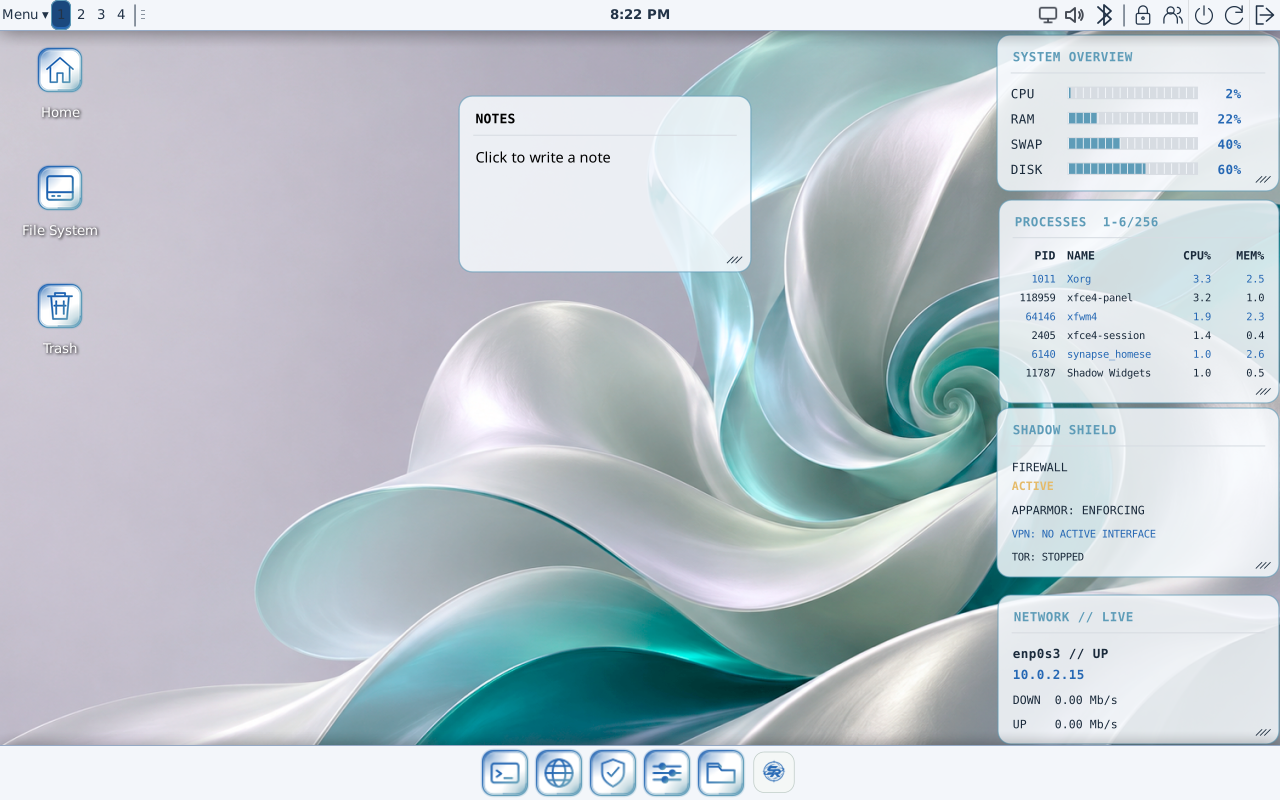
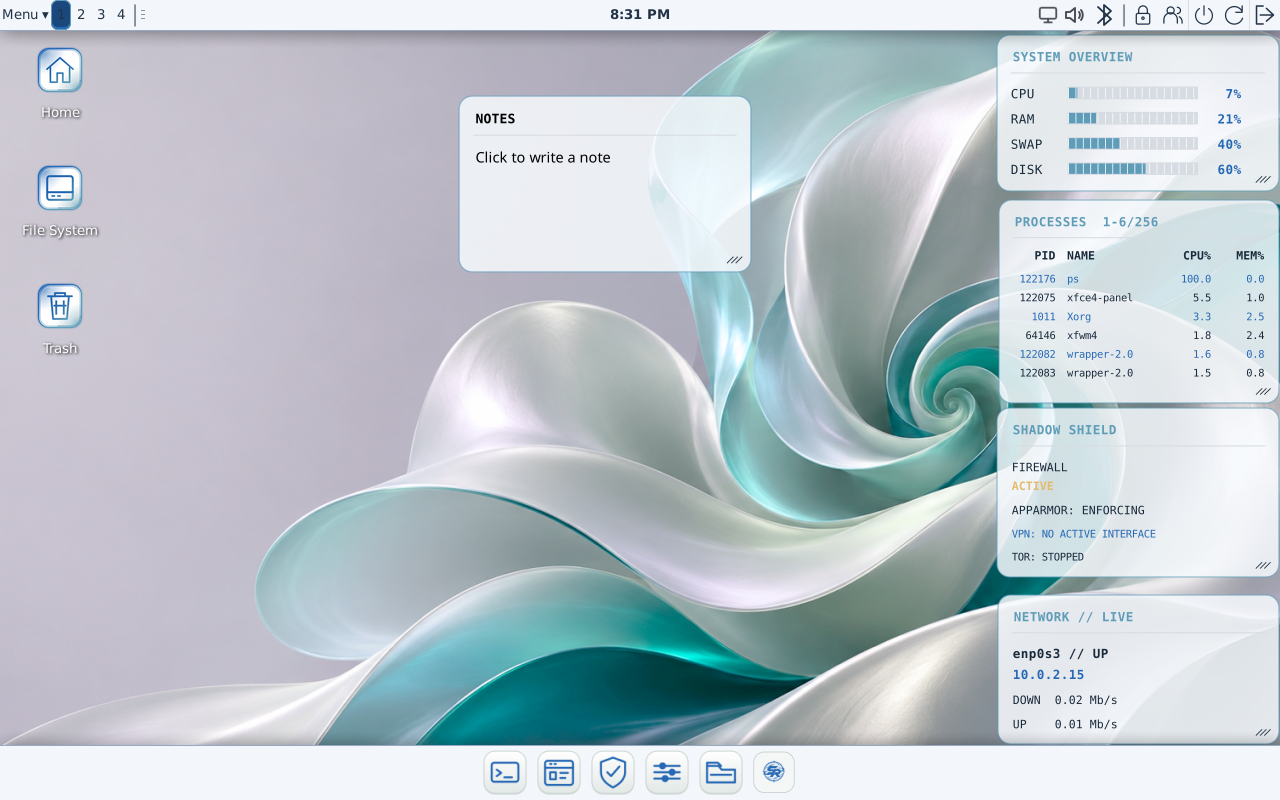
Use the neutral Professional dock art in the Professional screenshots.
The dock now shows the generated light Professional tiles instead of the
recoloured Neon signature frames, and they stay put across theme switches.

Changed region(s): [[0.375, 0.9375, 0.5938, 1.0], [0.7812, 0.4062, 0.9062, 0.4688], [0.7812, 0.3438, 0.8438, 0.4062]]

diff --git a/website/index.html b/website/index.html
@@ -249,7 +249,7 @@
 <figcaption><strong>Sculpted Silk</strong><span>Professional — Plum</span></figcaption></figure>
 </div>
 <p class="gallery-position" aria-live="polite" aria-atomic="true"></p>
-<div class="professional-showcase" hidden><h3>A quieter workspace</h3><p>Emerald, Ocean, Graphite and Plum accents pair with three sculpted abstract wallpapers. The same desktop controls and widgets use a restrained, unbranded appearance.</p><img class="screen" src="https://raw.githubusercontent.com/AstraShadowsss/ShadowRealm-OS/main/screenshots/professional.png?v=20261127docklight" alt="Professional desktop with Satin Bloom wallpaper and rounded status widgets" loading="lazy"><img class="screen" src="https://raw.githubusercontent.com/AstraShadowsss/ShadowRealm-OS/main/screenshots/control-center-professional.png?v=20261127docklight" alt="Control Center in the Professional desktop" loading="lazy"></div>
+<div class="professional-showcase" hidden><h3>A quieter workspace</h3><p>Emerald, Ocean, Graphite and Plum accents pair with three sculpted abstract wallpapers. The same desktop controls and widgets use a restrained, unbranded appearance.</p><img class="screen" src="https://raw.githubusercontent.com/AstraShadowsss/ShadowRealm-OS/main/screenshots/professional.png?v=20261127neutral" alt="Professional desktop with Satin Bloom wallpaper and rounded status widgets" loading="lazy"><img class="screen" src="https://raw.githubusercontent.com/AstraShadowsss/ShadowRealm-OS/main/screenshots/control-center-professional.png?v=20261127neutral" alt="Control Center in the Professional desktop" loading="lazy"></div>
 <noscript><p>Scroll sideways to browse the labeled collection.</p></noscript>
 </section>
 <style>

diff --git a/website/gallery-template.html b/website/gallery-template.html
@@ -12,7 +12,7 @@
 <!-- GALLERY CARDS -->
 </div>
 <p class="gallery-position" aria-live="polite" aria-atomic="true"></p>
-<div class="professional-showcase" hidden><h3>A quieter workspace</h3><p>Emerald, Ocean, Graphite and Plum accents pair with three sculpted abstract wallpapers. The same desktop controls and widgets use a restrained, unbranded appearance.</p><img class="screen" src="https://raw.githubusercontent.com/AstraShadowsss/ShadowRealm-OS/main/screenshots/professional.png?v=20261127docklight" alt="Professional desktop with Satin Bloom wallpaper and rounded status widgets" loading="lazy"><img class="screen" src="https://raw.githubusercontent.com/AstraShadowsss/ShadowRealm-OS/main/screenshots/control-center-professional.png?v=20261127docklight" alt="Control Center in the Professional desktop" loading="lazy"></div>
+<div class="professional-showcase" hidden><h3>A quieter workspace</h3><p>Emerald, Ocean, Graphite and Plum accents pair with three sculpted abstract wallpapers. The same desktop controls and widgets use a restrained, unbranded appearance.</p><img class="screen" src="https://raw.githubusercontent.com/AstraShadowsss/ShadowRealm-OS/main/screenshots/professional.png?v=20261127neutral" alt="Professional desktop with Satin Bloom wallpaper and rounded status widgets" loading="lazy"><img class="screen" src="https://raw.githubusercontent.com/AstraShadowsss/ShadowRealm-OS/main/screenshots/control-center-professional.png?v=20261127neutral" alt="Control Center in the Professional desktop" loading="lazy"></div>
 <noscript><p>Scroll sideways to browse the labeled collection.</p></noscript>
 </section>
 <style>

diff --git a/README.md b/README.md
@@ -115,9 +115,9 @@ Nine lightweight arcade and card games, with local scores and settings. No accou
 
 Professional pairs these three unbranded designs with Emerald, Ocean, Graphite or Plum accents.
 
-![Professional desktop with Satin Bloom and rounded widgets](screenshots/professional.png?v=20261127docklight)
+![Professional desktop with Satin Bloom and rounded widgets](screenshots/professional.png?v=20261127neutral)
 
-![Professional Control Center](screenshots/control-center-professional.png?v=20261127docklight)
+![Professional Control Center](screenshots/control-center-professional.png?v=20261127neutral)
 
 
 ## Shadow Games for Android
